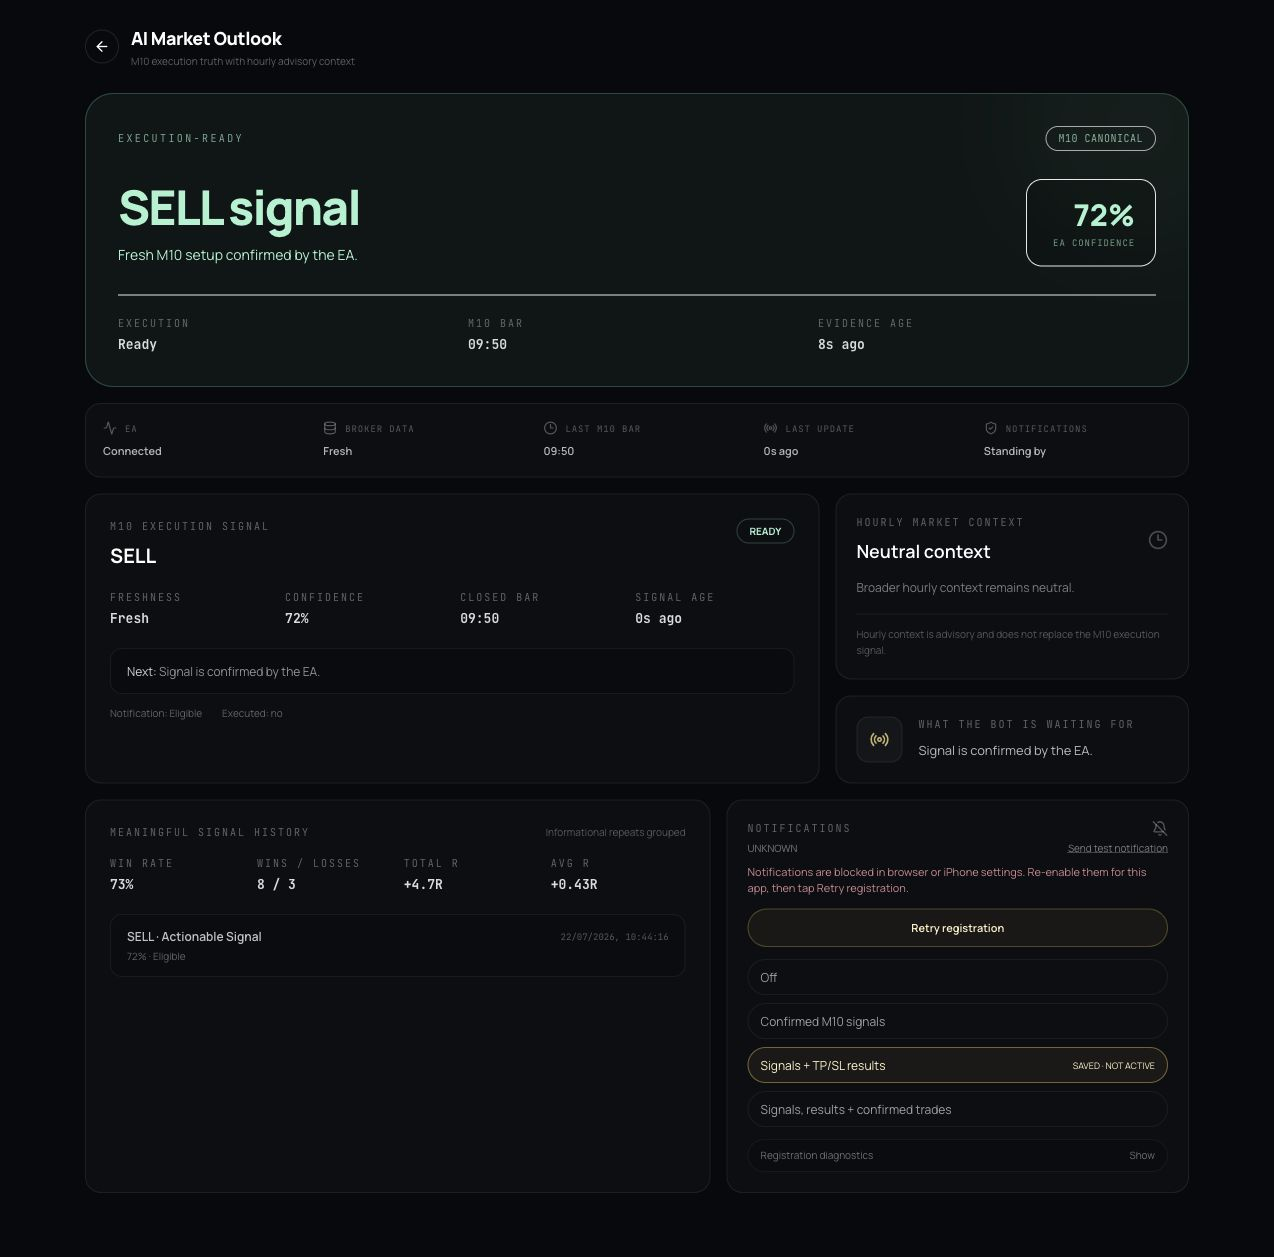
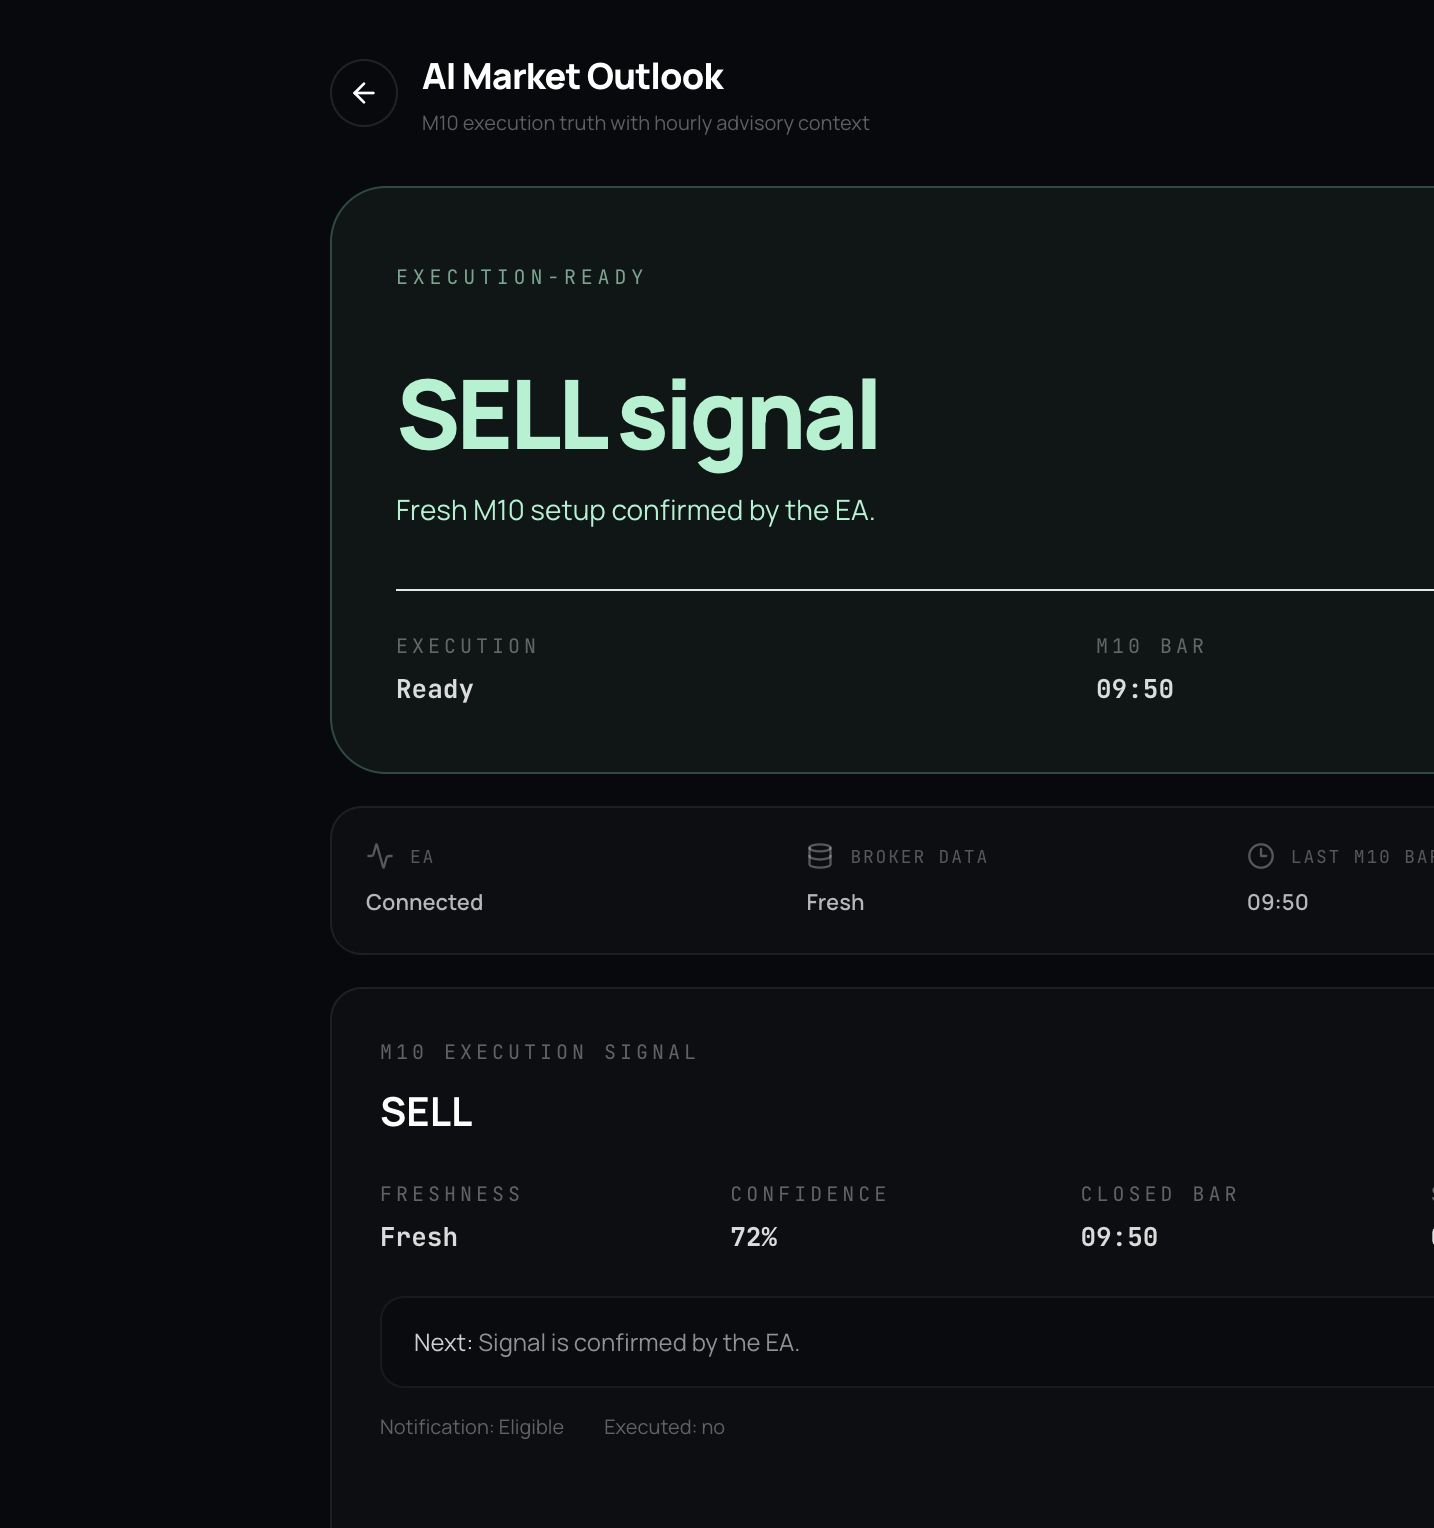
fix(frontend): restore outlook production contracts

diff --git a/frontend/src/pages/AIMarketOutlookPage.jsx b/frontend/src/pages/AIMarketOutlookPage.jsx
@@ -8,6 +8,7 @@ import {
 } from "lucide-react";
 import { API } from "@/lib/api";
 import { ensureOneSignalDeviceRegistered } from "@/lib/onesignal";
+import M10VsOutlookCard from "@/components/cloud/M10VsOutlookCard";
 
 const outlookAxios = axios.create({ baseURL: API, withCredentials: true });
 
@@ -620,12 +621,15 @@ function HourlyContextCard({ context }) {
 
 function WaitingCard({ contract }) {
   const Icon = contract?.state === "DATA_UNAVAILABLE" ? AlertTriangle : Radio;
+  const actionable = contract?.state === "ACTIONABLE_SIGNAL";
   return (
     <section className={`${CARD} flex gap-4 p-5`}>
       <div className="rounded-xl border border-white/[0.07] bg-white/[0.03] p-3"><Icon className="h-5 w-5 text-amber-200/75" /></div>
       <div>
-        <div className={MONO_LABEL}>What the bot is waiting for</div>
-        <p className="mt-2 text-[13px] leading-5 text-white/70">{contract?.nextRequiredCondition || "Fresh EA evidence."}</p>
+        <div className={MONO_LABEL}>{actionable ? "Current execution state" : "What the bot is waiting for"}</div>
+        <p className="mt-2 text-[13px] leading-5 text-white/70">
+          {actionable ? "No additional confirmation is pending; the M10 signal is execution-ready." : contract?.nextRequiredCondition || "Fresh EA evidence."}
+        </p>
         {contract?.blockerLabel && <p className="mt-1 text-[11px] text-rose-200/65">Blocker: {contract.blockerLabel}</p>}
       </div>
     </section>
@@ -703,7 +707,11 @@ export default function AIMarketOutlookPage() {
   const loadHistory = useCallback(async () => {
     if (previewMode) {
       setSignalEvents([{ id: "preview-event", event_type: "ACTIONABLE_SIGNAL", direction: "SELL", confidence: 72, event_time: new Date().toISOString(), notification_reason: "ELIGIBLE" }]);
-      setHistory([]); setStats({ wins: 8, losses: 3, win_rate: 8 / 11, total_r: 4.7, average_r: 0.43 });
+      setHistory([]); setStats({
+        wins: 8, losses: 3, win_rate: 8 / 11, total_r: 4.7, average_r: 0.43,
+        average_mfe: 0.81, average_mae: -0.24, active_unresolved_count: 1,
+        unavailable_historical_count: 0,
+      });
       return;
     }
     try {
@@ -730,6 +738,18 @@ export default function AIMarketOutlookPage() {
   }, [highlightId, loadCurrent, loadPrefs, loadHistory]);
 
   const notificationSummary = prefs?.tier === "OFF" ? "Preference off" : contract?.notificationSent ? "Delivered" : "Standing by";
+  const comparisonM10 = contract?.m10 ? {
+    ...contract.m10,
+    preferred_direction: contract.direction || contract.m10.direction || "NONE",
+    confidence: contract.confidence,
+    bar_time: contract.signalBarTime,
+  } : null;
+  const comparisonHourly = contract?.hourlyContext ? {
+    primary_direction: contract.hourlyContext.direction || contract.hourlyContext.state || "NONE",
+    confidence_pct: contract.hourlyContext.confidence,
+    status: contract.hourlyContext.state,
+    generated_at: contract.eventTime,
+  } : null;
 
   return (
     <div className="min-h-screen bg-[#07090d] text-white">
@@ -748,6 +768,12 @@ export default function AIMarketOutlookPage() {
             <M10ExecutionCard contract={contract} />
             <div className="grid gap-4"><HourlyContextCard context={contract?.hourlyContext} /><WaitingCard contract={contract} /></div>
           </div>
+          <M10VsOutlookCard
+            m10={comparisonM10}
+            outlook={comparisonHourly}
+            online={contract?.dataHealth === "HEALTHY"}
+            loading={!contract}
+          />
           <div className="grid gap-4 lg:grid-cols-[1.15fr_0.85fr]">
             <section className={`${CARD} p-5 sm:p-6`}>
               <div className="flex items-center justify-between"><span className={MONO_LABEL}>Meaningful signal history</span><span className="text-[10px] text-white/30">Informational repeats grouped</span></div>
@@ -756,6 +782,9 @@ export default function AIMarketOutlookPage() {
               <Metric label="Wins / Losses" value={`${stats.wins ?? 0} / ${stats.losses ?? 0}`} />
               <Metric label="Total R" value={stats.total_r != null ? `${stats.total_r > 0 ? "+" : ""}${stats.total_r}R` : "—"} />
               <Metric label="Avg R" value={stats.average_r != null ? `${stats.average_r > 0 ? "+" : ""}${stats.average_r}R` : "—"} />
+              <Metric label="Avg MFE / MAE" value={stats.average_mfe != null ? `${rText(stats.average_mfe)} / ${rText(stats.average_mae)}` : "—"} />
+              <Metric label="Active" value={stats.active_unresolved_count ?? 0} />
+              <Metric label="Unavailable history" value={stats.unavailable_historical_count ?? 0} />
               </div>
               <div className="mt-5 space-y-2">
                 {signalEvents.slice(0, 12).map((event) => <SignalEventCard key={event.id || `${event.candidate_id}-${event.event_type}`} event={event} />)}

diff --git a/frontend/src/components/cloud/CloudDashboard.jsx b/frontend/src/components/cloud/CloudDashboard.jsx
@@ -1042,19 +1042,23 @@ function HomePage({ status, heartbeat, licenseInfo, online, tradingOk, equityPoi
         </div>
       </div>
 
-      <div className="grid grid-cols-2 gap-2 sm:grid-cols-4" data-testid="home-summary-grid">
-        <Metric label="Equity" value={online?money(heartbeat.equity):"—"} detail={online?`Balance ${money(heartbeat.balance)}`:"Not live"} icon={CircleDollarSign} tone={online?"green":"neutral"} />
-        <Metric label="Today's P&L" value={online?money(pnlNum):"—"} detail={pnlNum&&heartbeat.balance?`${((pnlNum/Number(heartbeat.balance))*100).toFixed(2)}% of balance`:"Today"} icon={TrendingUp} tone={pnlPos?"green":"red"} />
-        <Metric label="AI confidence" value={online&&conf>0?`${conf}%`:"—"} detail={conf>=85?"Very high":conf>=70?"High":conf>=55?"Moderate":conf>0?"Building":"Waiting"} icon={Brain} tone={conf>=70?"green":conf>0?"amber":"neutral"} />
-        <Metric label="Open trades" value={online?openTrades:"—"} detail={online?`${heartbeat.spread??"-"} pts spread`:"No data"} icon={History} tone={openTrades>0?"amber":"neutral"} />
-      </div>
-
       <AIMarketOutlookCard
         linked={Boolean(licenseInfo.activation_key)}
         online={online}
         onOutlookChange={setHomeOutlook}
         onStatusChange={setOutlookStatus}
       />
+
+      <div className="grid grid-cols-2 gap-2 sm:grid-cols-4" data-testid="home-summary-grid">
+        <Metric label="Equity" value={online?money(heartbeat.equity):"—"} detail={online?`Balance ${money(heartbeat.balance)}`:"Not live"} icon={CircleDollarSign} tone={online?"green":"neutral"} />
+        <Metric label="Today's P&L" value={online?money(pnlNum):"—"} detail={pnlNum&&heartbeat.balance?`${((pnlNum/Number(heartbeat.balance))*100).toFixed(2)}% of balance`:"Today"} icon={TrendingUp} tone={pnlPos?"green":"red"} />
+        <Metric label="Open trades" value={online?openTrades:"—"} detail={online?`${heartbeat.spread??"-"} pts spread`:"No data"} icon={History} tone={openTrades>0?"amber":"neutral"} />
+        <Metric label="Open risk" value={online?pct(ddNum):"—"} detail="Current floating drawdown" icon={Shield} tone={online?riskTone:"neutral"} />
+        <Metric label="Market bias" value={online?bias.label:"—"} detail="Latest fresh EA evidence" icon={Activity} tone={online?bias.tone:"neutral"} />
+        <Metric label="AI confidence" value={online&&conf>0?`${conf}%`:"—"} detail={conf>=85?"Very high":conf>=70?"High":conf>=55?"Moderate":conf>0?"Building":"Waiting"} icon={Brain} tone={conf>=70?"green":conf>0?"amber":"neutral"} />
+        <Metric label="Session" value={online?session.label:"—"} detail="Device UTC session" icon={Clock3} tone={online?session.tone:"neutral"} />
+        <Metric label="Trading status" value={online?botState:"Offline"} detail={tradingOk?"Broker trading enabled":"No new-trade authority"} icon={Bot} tone={online?stateTone:"neutral"} />
+      </div>
 
       {online && <M10SignalCard events={events} heartbeat={heartbeat} />}
 

diff --git a/frontend/src/components/cloud/M10VsOutlookCard.jsx b/frontend/src/components/cloud/M10VsOutlookCard.jsx
@@ -77,7 +77,9 @@ export default function M10VsOutlookCard({
           {agree && <p className="mt-3 text-[11px] text-emerald-300">Agree: both currently favor {m10Dir}.</p>}
           {conflict && <p className="mt-3 text-[11px] text-amber-300">Conflict: M10 favors {m10Dir}; hourly outlook favors {outlookDir}.</p>}
           {online && !requestFailed && m10Freshness === "FRESH" && !bothDirectional && (
-            <p className="mt-3 text-[11px] text-white/35">One or both canonical sources are neutral or waiting.</p>
+            <p className="mt-3 text-[11px] text-white/35">
+              M10 remains authoritative. The hourly advisory is neutral or waiting and does not erase the M10 state.
+            </p>
           )}
           {!loading && !m10 && !outlook && (
             <p className="mt-3 text-[11px] text-white/35">No comparison data yet. Waiting for the EA and hourly outlook.</p>

diff --git a/frontend/src/components/cloud/AIMarketOutlookCard.jsx b/frontend/src/components/cloud/AIMarketOutlookCard.jsx
@@ -115,7 +115,9 @@ export default function AIMarketOutlookCard({ linked = true, online = true, onOu
 
       {(!online || stale) && (
         <p className="mt-3 rounded-lg border border-rose-400/25 bg-rose-400/[0.06] px-3 py-2 text-[11px] font-semibold text-rose-300">
-          DATA STALE — do not rely on this outlook until fresh EA evidence arrives.
+          {!online
+            ? "EA offline — showing no live outlook until a fresh heartbeat arrives."
+            : "DATA STALE — do not rely on this outlook until fresh EA evidence arrives."}
         </p>
       )}
 

diff --git a/frontend/public/service-worker.js b/frontend/public/service-worker.js
@@ -9,7 +9,7 @@ let oneSignalWorkerImported = false;
 let oneSignalWorkerError = "";
 
 try {
-  importScripts("https://cdn.onesignal.com/sdks/web/v16/OneSignalSDK.sw.js");
+  importScripts('https://cdn.onesignal.com/sdks/web/v16/OneSignalSDK.sw.js');
   oneSignalWorkerImported = true;
 } catch (error) {
   oneSignalWorkerError = String(error?.message || error || "OneSignal worker import failed");
